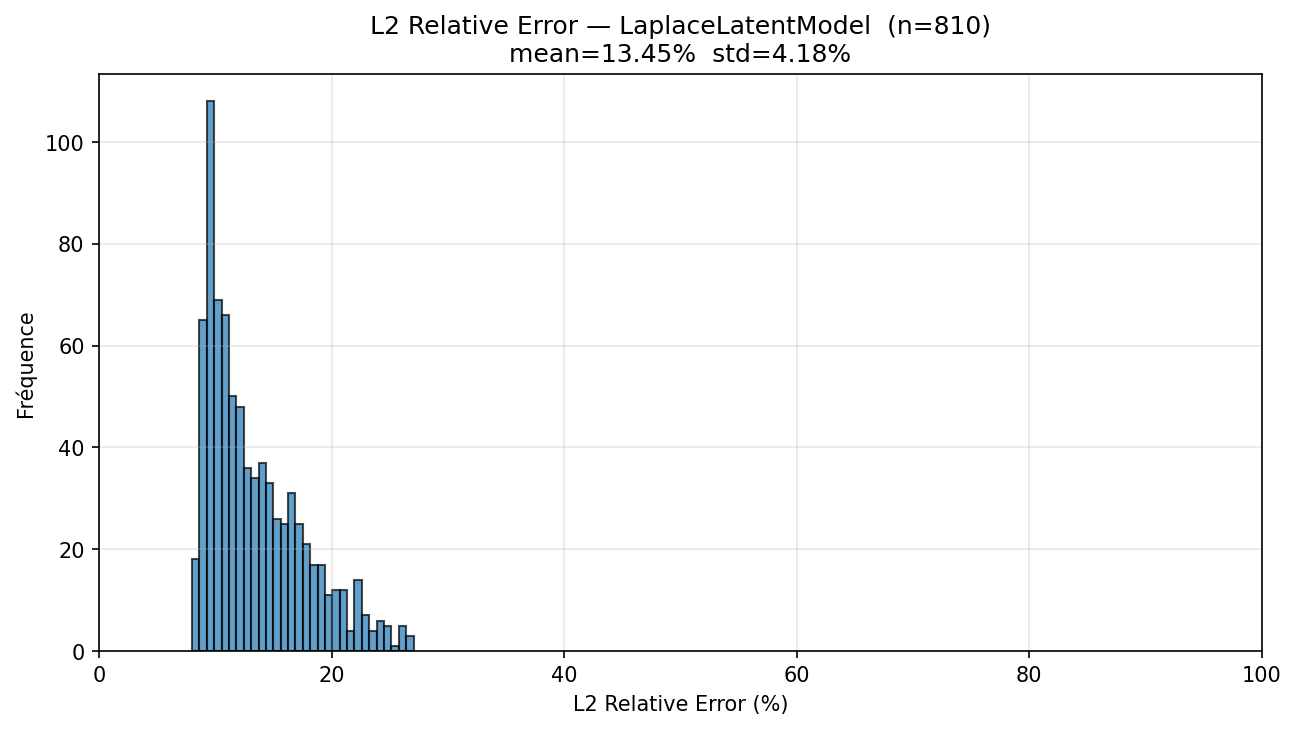
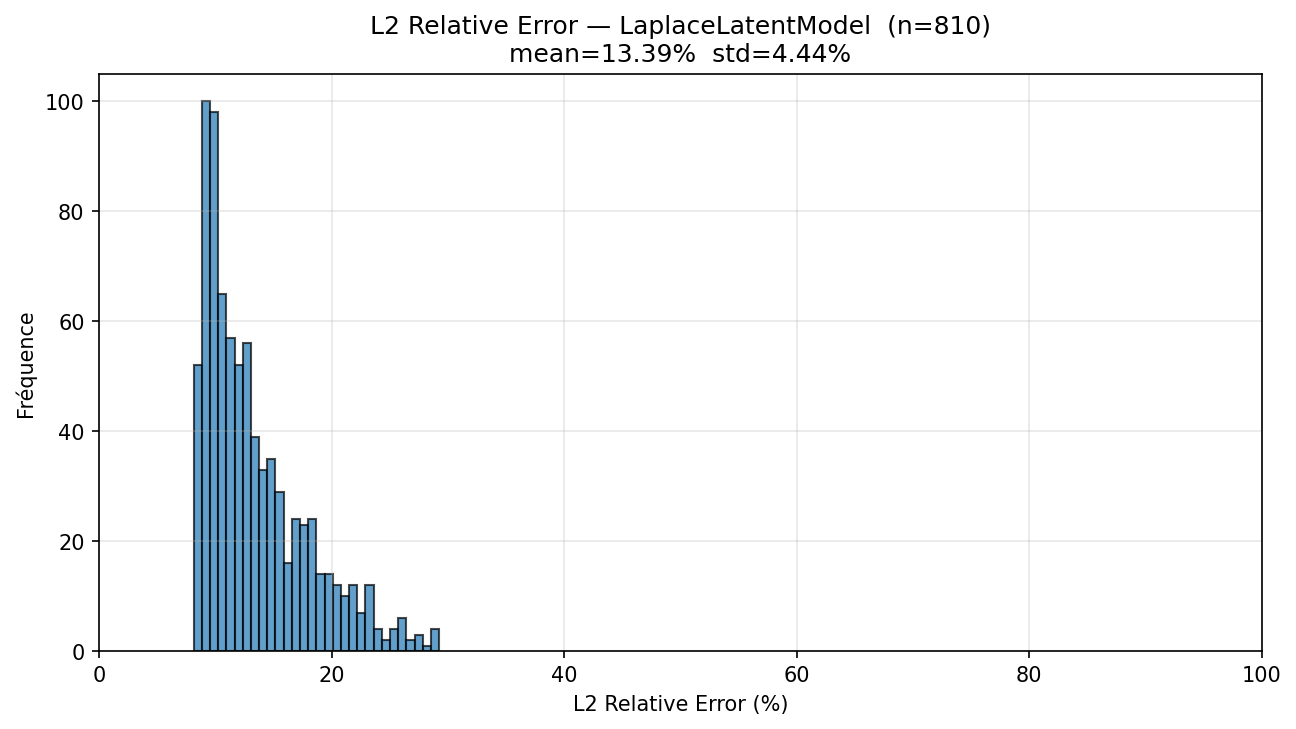
train de laplace model (avec quelques fix)

diff --git a/transient/train_laplace.py b/transient/train_laplace.py
@@ -46,6 +46,7 @@ def train_one(
     freq_ratio   = 0.0,         # k / (Nt_half - 1), pour le conditionnement FiLM
     latent_mode  = False,       # True → targets sont des z pré-calculés, loss MSE en espace latent
     val_loader_u = None,        # loader (theta_n, u_norm) pour L2rel sur U en mode latent
+    hidden_dim   = 256,
 ):
     """
     Entraîne un LaplaceSurrogate (ou LaplaceLatentSurrogate si ae fourni) pour la fréquence k.
@@ -61,10 +62,10 @@ def train_one(
     if ae is not None:
         model = LaplaceLatentSurrogate(
             latent_dim=ae.latent_dim, theta_dim=theta_dim, freq_ratio=freq_ratio,
+            hidden_dim=hidden_dim,
         ).to(device)
-        if not latent_mode:
-            ae.decoder.to(device).requires_grad_(False)
-            model.set_decoder(ae.decoder)
+        ae.decoder.to(device).requires_grad_(False)
+        model.set_decoder(ae.decoder)
         params_to_train = model.proj.parameters()  # décodeur gelé
     else:
         model           = LaplaceSurrogate(s=s_k, N=N, theta_dim=theta_dim, freq_ratio=freq_ratio).to(device)
@@ -91,6 +92,7 @@ def train_one(
         position=1,
     )
     epoch = 0
+    latent_mode = ae is not None
     for epoch in epoch_bar:
         t0 = time.perf_counter()
 
@@ -98,15 +100,15 @@ def train_one(
         model.train()
         train_loss  = torch.zeros(1, device=device)
         train_l2rel = torch.zeros(1, device=device)
-        for th, u in train_loader:
-            th, u = th.to(device), u.to(device)
+        for th, target in train_loader:
+            th, target = th.to(device), target.to(device)
             with torch.cuda.amp.autocast(enabled=use_amp):
                 if latent_mode:
-                    u_hat = model.proj(th)  # type: ignore[operator]
-                    loss  = F.mse_loss(u_hat, u)
+                    target_hat = model.proj(th)  # type: ignore[operator]
+                    loss  = F.mse_loss(target_hat, target)
                 else:
-                    u_hat = model(th)
-                    loss  = model.loss(u_hat, u)
+                    target_hat = model(th)
+                    loss  = model.loss(target_hat, target)
             optimizer.zero_grad()
             scaler.scale(loss).backward()
             scaler.unscale_(optimizer)
@@ -114,8 +116,8 @@ def train_one(
             scaler.step(optimizer)
             scaler.update()
             train_loss  += loss.detach()
-            train_l2rel += ((u_hat.detach() - u).flatten(1).norm(dim=1)
-                            / (u.flatten(1).norm(dim=1) + 1e-8)).mean()
+            train_l2rel += ((target_hat.detach() - target).flatten(1).norm(dim=1)
+                            / (target.flatten(1).norm(dim=1) + 1e-8)).mean()
         train_loss  = train_loss.item()  / len(train_loader)
         train_l2rel = train_l2rel.item() / len(train_loader)
 
@@ -124,24 +126,24 @@ def train_one(
         val_loss  = torch.zeros(1, device=device)
         val_l2rel = torch.zeros(1, device=device)
         with torch.no_grad():
-            for th, u in val_loader:
-                th, u = th.to(device), u.to(device)
+            for th, target in val_loader:
+                th, target = th.to(device), target.to(device)
                 with torch.cuda.amp.autocast(enabled=use_amp):
                     if latent_mode:
-                        u_hat    = model.proj(th)  # type: ignore[operator]
-                        loss_val = F.mse_loss(u_hat, u)
+                        target_hat    = model.proj(th)  # type: ignore[operator]
+                        loss_val = F.mse_loss(target_hat, target)
                     else:
-                        u_hat    = model(th)
-                        loss_val = model.loss(u_hat, u)
+                        target_hat    = model(th)
+                        loss_val = model.loss(target_hat, target)
                 val_loss  += loss_val
-                val_l2rel += ((u_hat - u).flatten(1).norm(dim=1)
-                              / (u.flatten(1).norm(dim=1) + 1e-8)).mean()
+                val_l2rel += ((target_hat - target).flatten(1).norm(dim=1)
+                              / (target.flatten(1).norm(dim=1) + 1e-8)).mean()
         val_loss  = val_loss.item()  / len(val_loader)
         val_l2rel = val_l2rel.item() / len(val_loader)
 
         # --- Val L2rel sur U (mode latent uniquement) ---
         val_l2rel_U = None
-        if latent_mode and val_loader_u is not None and ae is not None:
+        if latent_mode and ae is not None and val_loader_u is not None:
             decoder = ae.decoder.to(device)
             acc = torch.zeros(1, device=device)
             with torch.no_grad():
@@ -195,6 +197,7 @@ def train_one(
         'target_std':  target_std.numpy(),
         'N': N, 'Nt': Nt, 'theta_dim': theta_dim,
         'freq_idx': k, 's_k_real': s_k.real, 's_k_imag': s_k.imag,
+        'hidden_dim': hidden_dim,
     }, ckpt_path)
 
     if wandb.run is not None:
@@ -240,7 +243,6 @@ def train_all(
     ckpt_dir    = 'checkpoints/laplace',
     project     = 'convdiff',
     ae          = None,
-    latent_mode = True,   # True → loss sur z (pré-calculés) ; False → loss sur U (décodeur gelé)
     k_max       = None,   # fréquences k > k_max → pas d'entraînement, prédiction = moyenne
     hidden_dim  = 256,
 ):
@@ -259,7 +261,7 @@ def train_all(
     N           = dataset.N
     Nt          = dataset.Nt
     theta_dim   = dataset.theta_dim
-    latent_mode = latent_mode and (ae is not None)
+    latent_mode = ae is not None
     device      = torch.device('cuda' if torch.cuda.is_available() else 'cpu')
 
     print(f"Device : {device}   ns={len(dataset)}  Nt={Nt} (Nt_half={Nt_half})  N={N}  theta_dim={theta_dim}")
@@ -337,8 +339,8 @@ def train_all(
             target_std   = dataset.target_std[k],
             N=N, Nt=Nt, epochs=epochs, lr=lr, patience=patience,
             theta_dim=theta_dim, device=device, ckpt_dir=ckpt_dir,
-            global_step=global_step, ae=ae, freq_ratio=freq_ratio,
-            latent_mode=latent_mode, val_loader_u=val_loader_u,
+            global_step=global_step, ae=ae, freq_ratio=freq_ratio, val_loader_u=val_loader_u,
+            hidden_dim=hidden_dim,
         )
         best_vals.append(best_val)
         global_step += n_epochs
@@ -350,6 +352,9 @@ def train_all(
         'summary/best_val_max' : float(np.max(best_vals)),
         'summary/best_val_min' : float(np.min(best_vals)),
     })
+    values = [[k, float(v)] for k, v in enumerate(best_vals)]
+    tab = wandb.Table(data=values, columns=['frequency_k', 'best_val_loss'])
+    wandb.log({'best_vals': wandb.plot.bar(tab, 'frequency_k', 'best_val_loss', title='Best Val Loss par Fréquence')})
     wandb.finish()
     print(f"\nEntraînement terminé — val loss  mean={np.mean(best_vals):.3e}"
           f"  max={np.max(best_vals):.3e}  min={np.min(best_vals):.3e}")
@@ -370,6 +375,9 @@ def assemble_model(dataset, ckpt_dir: str, test_idx, save_dir: str = 'checkpoint
     gamma     = float(dataset.s[0].real) if hasattr(dataset, 's') else 0.0
 
     if ae is not None:
+        # Lire hidden_dim depuis le checkpoint pour éviter les mismatches
+        _ckpt0 = torch.load(os.path.join(ckpt_dir, 'LatentSurrogate_freq000.pt'), map_location='cpu', weights_only=False)
+        hidden_dim = _ckpt0.get('hidden_dim', hidden_dim)
         model      = LaplaceLatentModel(N_freq=Nt, N_half=Nt_half, N=N,
                                         theta_dim=theta_dim, latent_dim=ae.latent_dim, k_max=k_max, hidden_dim=hidden_dim)
         model.set_ae_decoder(ae)
@@ -421,7 +429,7 @@ if __name__ == '__main__':
     data_path  = os.path.join("dataset", "ch4_rotated.npy")
     ae_ckpt    = os.path.join("checkpoints", "LaplaceAE_best.pt")
     ckpt_dir   = os.path.join("checkpoints", "laplace_latent")
-    epochs, batch_size, lr, patience = 500, 256, 1e-3, 15
+    epochs, batch_size, lr, patience = 1000, 512, 1e-3, 50
     gamma, rule, seed = 0.0, 'trap', 42
     interp_size = 128  # doit correspondre au N utilisé pour entraîner le AE
     dt          = 1.0
@@ -452,4 +460,4 @@ if __name__ == '__main__':
     os.makedirs(ckpt_dir, exist_ok=True)
     train_all(dataset, train_idx, val_idx, test_idx,
               epochs=epochs, batch_size=batch_size, lr=lr, patience=patience,
-              ckpt_dir=ckpt_dir, ae=ae, latent_mode=False, k_max=k_max, hidden_dim=hidden_dim)
+              ckpt_dir=ckpt_dir, ae=ae, k_max=k_max, hidden_dim=hidden_dim)

diff --git a/transient/main.py b/transient/main.py
@@ -38,16 +38,19 @@ def load_model(ckpt_path: str, device: torch.device):
             N_half    = ckpt['N_half'],
             N         = ckpt['N'],
             theta_dim = ckpt['theta_dim'],
+            k_max     = ckpt.get('k_max'),
         ).to(device)
 
     elif model_type == 'LaplaceLatentModel':
         from models.laplace_ae_surrogate import LaplaceLatentModel
         model = LaplaceLatentModel(
-            N_freq    = ckpt['N_freq'],
-            N_half    = ckpt['N_half'],
-            N         = ckpt['N'],
-            theta_dim = ckpt['theta_dim'],
+            N_freq     = ckpt['N_freq'],
+            N_half     = ckpt['N_half'],
+            N          = ckpt['N'],
+            theta_dim  = ckpt['theta_dim'],
             latent_dim = ckpt['latent_dim'],
+            hidden_dim = ckpt['hidden_dim'],
+            k_max      = ckpt.get('k_max'),
         ).to(device)
 
     elif model_type == 'LaplaceSVDModel':
@@ -251,7 +254,7 @@ def evaluate(U, theta, ckpt_path: str, test_idx=None,
 
 
 def main(
-    ckpt_path = 'checkpoints/LaplaceSVDModel.pt',
+    ckpt_path = 'checkpoints/LaplaceLatentModel.pt',
     data_path = '/Data/KAT/ch4_rotated.npy',
     theta     = [[1.0, 0.5, 0.3, 2.0]],
     dt        = None,

diff --git a/transient/finetune_decoder_laplace.py b/transient/finetune_decoder_laplace.py
@@ -142,6 +142,7 @@ def finetune(
     model = LaplaceLatentModel(
         N_freq=ckpt['N_freq'], N_half=ckpt['N_half'], N=ckpt['N'],
         theta_dim=ckpt['theta_dim'], latent_dim=ckpt['latent_dim'],
+        hidden_dim=ckpt['hidden_dim'], k_max=ckpt.get('k_max'),
     )
     model.load_state_dict(ckpt['model_state'])
     model.to(device)
@@ -328,6 +329,8 @@ def finetune(
                 'N':           N,
                 'theta_dim':   theta_dim,
                 'latent_dim':  ckpt['latent_dim'],
+                'hidden_dim':  ckpt['hidden_dim'],
+                'k_max':       ckpt.get('k_max'),
                 'dt':          dt,
                 'gamma':       gamma,
                 'theta_mean':  dataset.theta_mean,